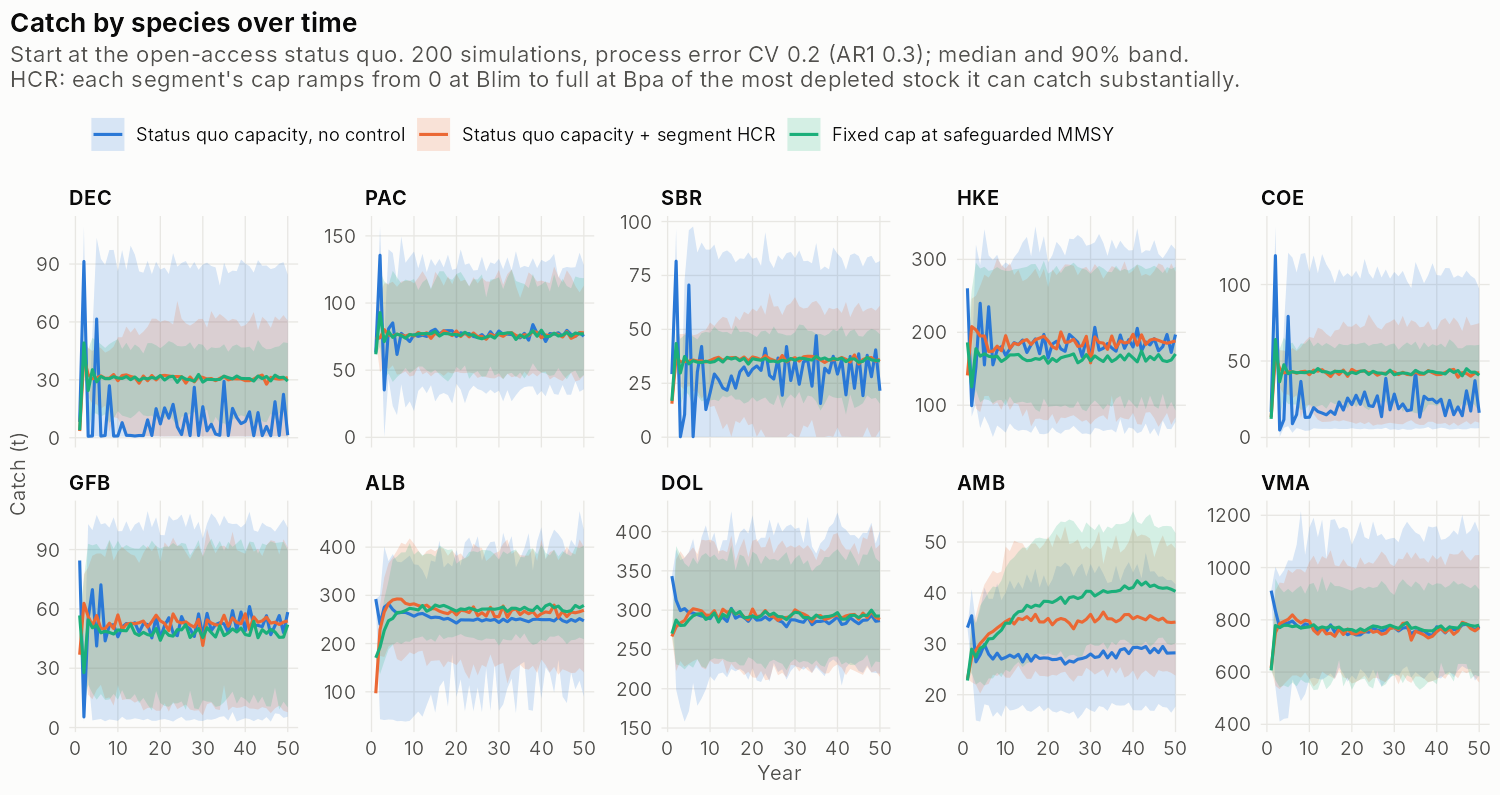
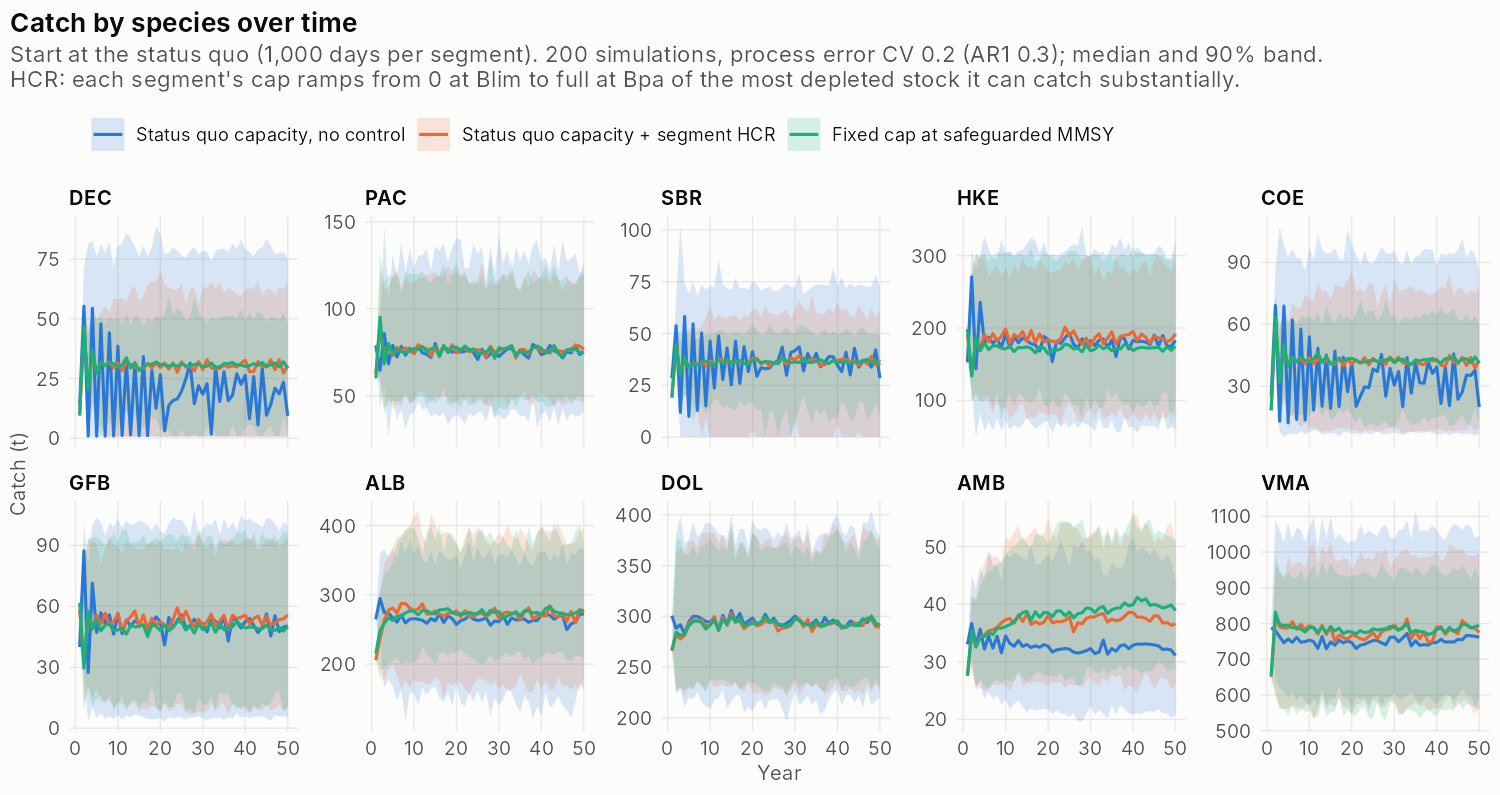
Type efficiency for vessel types; dev-mmsy: segment efficiency and daily cost, capacity-limited status quo
simulate_logbook(): new setting type_efficiency multiplies the random
vessel effect by vessel type (default 1, results unchanged).
dev-mmsy: efficiency by segment x metier drives F through effective
effort; segments allocate by their own profit; daily cost by segment
(default = efficiency); ms_status_quo() with 1,000 days per segment.

Claude-Session: https://claude.ai/code/session_01N6VjbRjKZChkyPJ4nwFJbR

diff --git a/dev/mmsy/README.md b/dev/mmsy/README.md
@@ -102,7 +102,38 @@ Run the scripts from the repository root, with cpueTargeting installed.
    * Blim → Bpa;
    * result: P(B < Blim) = 0, mean yield 581.
 
-## Balanced reference system (current defaults)
+## Specialist efficiency and the capacity-limited status quo (current defaults)
+
+**Type efficiency.** Specialists fish more efficiently than generalists.
+
+* `simulate_logbook()` has a new setting, `type_efficiency`, which multiplies the random vessel effect by vessel type. The default is 1 for all types, so existing results are unchanged.
+* `ms_settings()` sets mixed vessels to 0.75.
+* `ms_system()` uses the same values as the segment efficiency (`eff_home`, `eff_away`). Efficiency multiplies catchability, so F comes from effective effort, and each segment chooses métiers by its own profit, eff × revenue − cost.
+
+**Daily cost follows efficiency** (`cost_seg`, default = efficiency): smaller, cheaper vessels. With equal daily costs, a mixed segment 25% less efficient is excluded:
+
+* under open access it disappears;
+* with capacity limits it is squeezed out once the fishery is overexploited, because it can't break even where the specialists do.
+
+At a daily cost of 0.85 it is excluded from 1,000–1,500 days per segment upwards.
+
+**Status quo** (`ms_status_quo()`): capacity-limited, with 1,000 days per segment (a third of the fleet each). Profit decides how many days are used.
+
+* All segments use their full capacity.
+* Yield 1,815, profit 535.
+* Seriola 0.42 (below Bpa), albacore 0.67, median B/Bmsy about 0.9.
+
+**Safeguarded optima** (γ = 1.5, caps limited to capacity):
+
+| Option | Days (dem/pel/mix) | Yield | Profit |
+|---|---|---|---|
+| Safeguarded MMSY, one cap | 672 per segment | 1,846 | 920 |
+| Safeguarded MMSY, caps each ≥ 20% | 558/469/857 | 1,847 | 1,084 |
+| MMEY, one cap | 196 per segment | 1,352 | 2,322 |
+
+**Segment HCR** (responsibility by catchability): all three segments answer for Seriola. Each cuts back to about 700–800 days, Seriola moves up to just below Bpa, and yield is unchanged.
+
+## Balanced reference system
 
 The first version was unbalanced in two ways:
 
